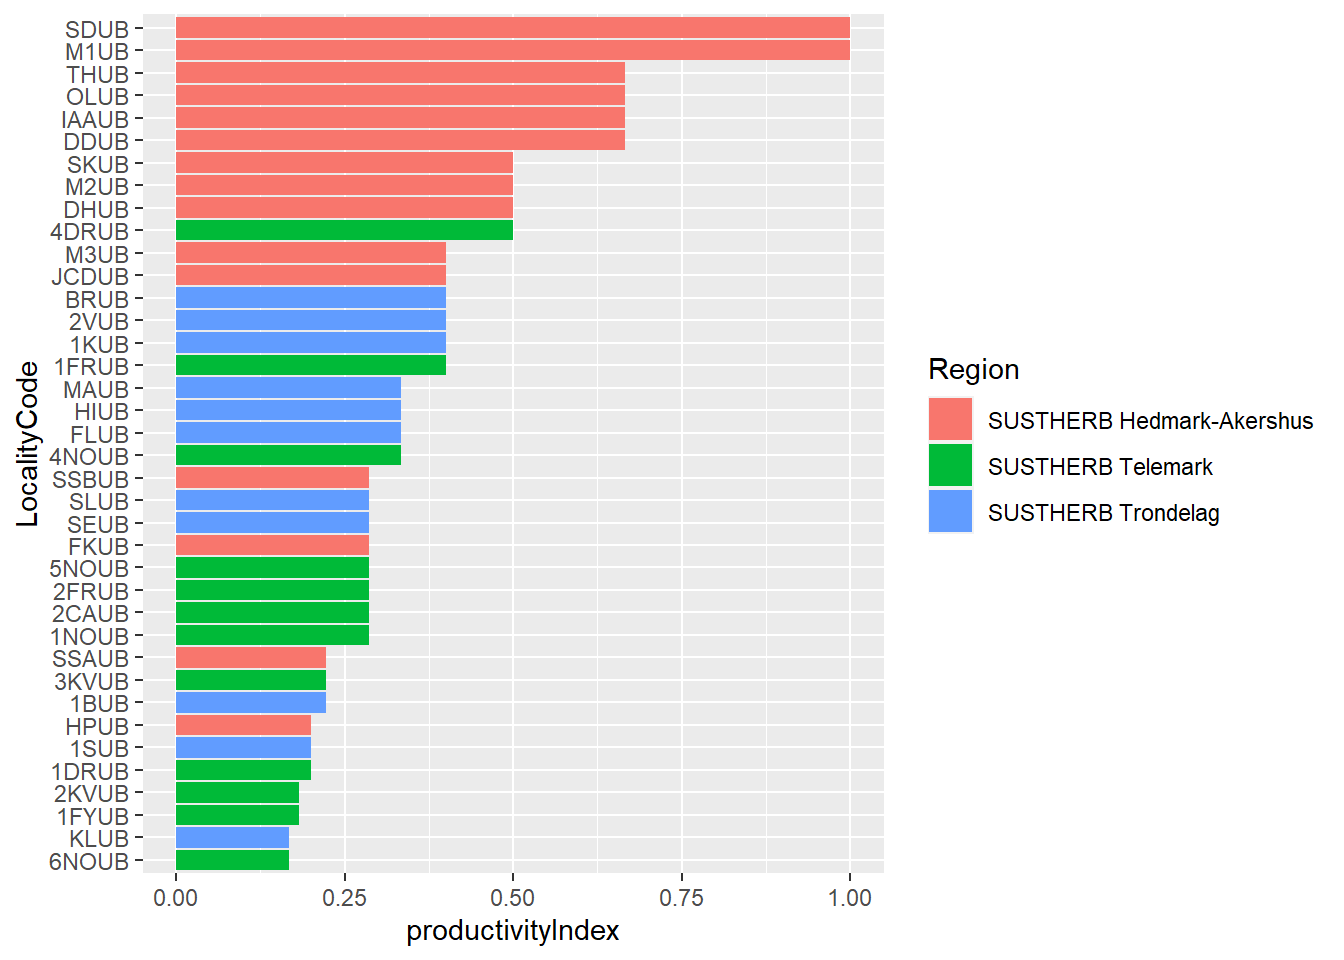
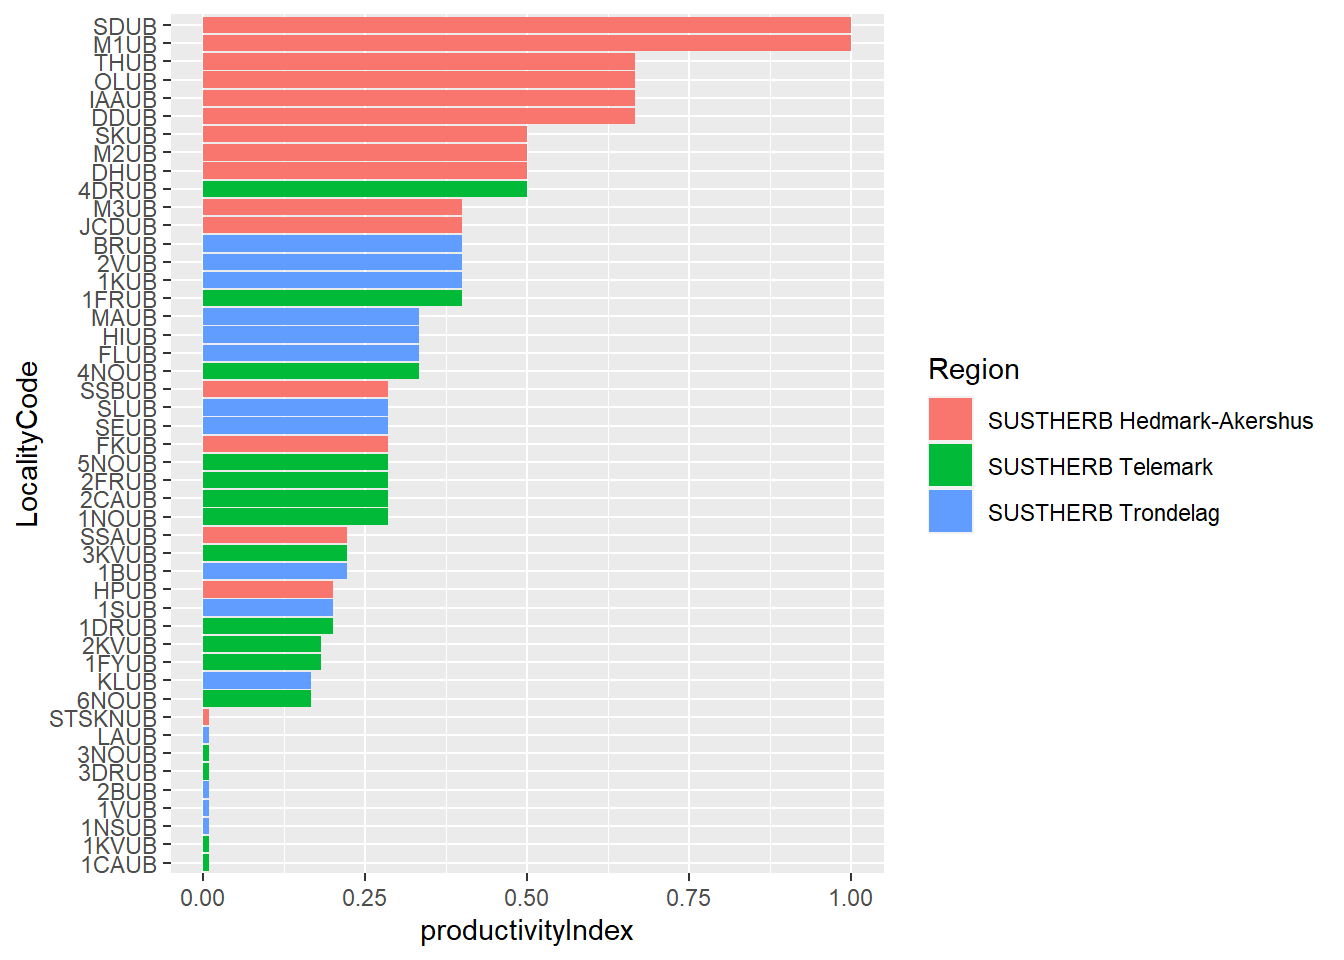
update productivity index

diff --git a/R/productivity index.html b/R/productivity index.html
@@ -346,22 +346,32 @@ Figure&nbsp;5: Same as previous figure, but with normalised biomass variable.
 <summary>Code</summary>
 <div class="sourceCode cell-code" id="cb12"><pre class="sourceCode r code-with-copy"><code class="sourceCode r"><span id="cb12-1"><a href="#cb12-1" aria-hidden="true" tabindex="-1"></a>dat_site <span class="ot">&lt;-</span> dat_site <span class="sc">|&gt;</span></span>
 <span id="cb12-2"><a href="#cb12-2" aria-hidden="true" tabindex="-1"></a>  <span class="fu">group_by</span>(LocalityCode) <span class="sc">|&gt;</span></span>
-<span id="cb12-3"><a href="#cb12-3" aria-hidden="true" tabindex="-1"></a>  <span class="fu">mutate</span>(<span class="at">lowestYear =</span> <span class="fu">case_when</span>(</span>
-<span id="cb12-4"><a href="#cb12-4" aria-hidden="true" tabindex="-1"></a>    Biomass_norm <span class="sc">==</span> <span class="dv">0</span> <span class="sc">~</span> yearsSinceStart),</span>
-<span id="cb12-5"><a href="#cb12-5" aria-hidden="true" tabindex="-1"></a>    <span class="at">lowestYear =</span> <span class="fu">max</span>(lowestYear, <span class="at">na.rm=</span>T)) <span class="sc">|&gt;</span></span>
-<span id="cb12-6"><a href="#cb12-6" aria-hidden="true" tabindex="-1"></a>  <span class="fu">filter</span>(Biomass_norm <span class="sc">&gt;</span> <span class="dv">25000</span>) <span class="sc">|&gt;</span></span>
-<span id="cb12-7"><a href="#cb12-7" aria-hidden="true" tabindex="-1"></a>  <span class="fu">slice_min</span>(Biomass_norm) <span class="sc">|&gt;</span></span>
-<span id="cb12-8"><a href="#cb12-8" aria-hidden="true" tabindex="-1"></a>  <span class="fu">ungroup</span>() <span class="sc">|&gt;</span></span>
-<span id="cb12-9"><a href="#cb12-9" aria-hidden="true" tabindex="-1"></a>  <span class="fu">mutate</span>(<span class="at">elapsed =</span> yearsSinceStart <span class="sc">-</span> lowestYear,</span>
-<span id="cb12-10"><a href="#cb12-10" aria-hidden="true" tabindex="-1"></a>         <span class="at">productivityIndex =</span> <span class="fu">min</span>(elapsed)<span class="sc">/</span>elapsed)</span>
-<span id="cb12-11"><a href="#cb12-11" aria-hidden="true" tabindex="-1"></a></span>
-<span id="cb12-12"><a href="#cb12-12" aria-hidden="true" tabindex="-1"></a>dat_site <span class="sc">|&gt;</span></span>
-<span id="cb12-13"><a href="#cb12-13" aria-hidden="true" tabindex="-1"></a>  <span class="fu">arrange</span>(productivityIndex) <span class="sc">|&gt;</span></span>
-<span id="cb12-14"><a href="#cb12-14" aria-hidden="true" tabindex="-1"></a>  <span class="fu">mutate</span>(<span class="at">LocalityCode =</span> <span class="fu">fct_inorder</span>(LocalityCode)) <span class="sc">|&gt;</span></span>
-<span id="cb12-15"><a href="#cb12-15" aria-hidden="true" tabindex="-1"></a>  <span class="fu">ggplot</span>() <span class="sc">+</span></span>
-<span id="cb12-16"><a href="#cb12-16" aria-hidden="true" tabindex="-1"></a>  <span class="fu">geom_bar</span>(<span class="fu">aes</span>(<span class="at">x =</span> LocalityCode, <span class="at">y =</span> productivityIndex, <span class="at">fill =</span> Region),</span>
-<span id="cb12-17"><a href="#cb12-17" aria-hidden="true" tabindex="-1"></a>           <span class="at">stat =</span> <span class="st">"identity"</span>)<span class="sc">+</span></span>
-<span id="cb12-18"><a href="#cb12-18" aria-hidden="true" tabindex="-1"></a>  <span class="fu">coord_flip</span>()</span></code><button title="Copy to Clipboard" class="code-copy-button"><i class="bi"></i></button></pre></div>
+<span id="cb12-3"><a href="#cb12-3" aria-hidden="true" tabindex="-1"></a>  <span class="fu">mutate</span>(</span>
+<span id="cb12-4"><a href="#cb12-4" aria-hidden="true" tabindex="-1"></a>    <span class="at">lowestYear =</span> <span class="fu">case_when</span>(</span>
+<span id="cb12-5"><a href="#cb12-5" aria-hidden="true" tabindex="-1"></a>    Biomass_norm <span class="sc">==</span> <span class="dv">0</span> <span class="sc">~</span> yearsSinceStart),</span>
+<span id="cb12-6"><a href="#cb12-6" aria-hidden="true" tabindex="-1"></a>    <span class="at">lowestYear =</span> <span class="fu">max</span>(lowestYear, <span class="at">na.rm=</span>T),</span>
+<span id="cb12-7"><a href="#cb12-7" aria-hidden="true" tabindex="-1"></a>    <span class="at">bigEnough =</span> <span class="fu">case_when</span>(</span>
+<span id="cb12-8"><a href="#cb12-8" aria-hidden="true" tabindex="-1"></a>      Biomass_norm <span class="sc">&gt;</span> <span class="dv">25000</span> <span class="sc">~</span> <span class="cn">TRUE</span>,</span>
+<span id="cb12-9"><a href="#cb12-9" aria-hidden="true" tabindex="-1"></a>      <span class="at">.default =</span> <span class="cn">FALSE</span>)</span>
+<span id="cb12-10"><a href="#cb12-10" aria-hidden="true" tabindex="-1"></a>    ) <span class="sc">|&gt;</span>  </span>
+<span id="cb12-11"><a href="#cb12-11" aria-hidden="true" tabindex="-1"></a>  <span class="fu">filter</span>(<span class="cf">if</span>(<span class="fu">any</span>(bigEnough<span class="sc">==</span> <span class="cn">TRUE</span>)) Biomass_norm <span class="sc">&gt;</span> <span class="dv">25000</span> <span class="cf">else</span> <span class="cn">TRUE</span>) <span class="sc">|&gt;</span></span>
+<span id="cb12-12"><a href="#cb12-12" aria-hidden="true" tabindex="-1"></a>  <span class="fu">slice_min</span>(Biomass_norm) <span class="sc">|&gt;</span></span>
+<span id="cb12-13"><a href="#cb12-13" aria-hidden="true" tabindex="-1"></a>  <span class="fu">ungroup</span>() <span class="sc">|&gt;</span></span>
+<span id="cb12-14"><a href="#cb12-14" aria-hidden="true" tabindex="-1"></a>  <span class="fu">mutate</span>(</span>
+<span id="cb12-15"><a href="#cb12-15" aria-hidden="true" tabindex="-1"></a>    <span class="at">elapsed =</span> <span class="fu">case_when</span>(</span>
+<span id="cb12-16"><a href="#cb12-16" aria-hidden="true" tabindex="-1"></a>      bigEnough <span class="sc">==</span> <span class="cn">TRUE</span> <span class="sc">~</span> yearsSinceStart <span class="sc">-</span> lowestYear,</span>
+<span id="cb12-17"><a href="#cb12-17" aria-hidden="true" tabindex="-1"></a>      bigEnough <span class="sc">==</span> <span class="cn">FALSE</span> <span class="sc">~</span> <span class="cn">NA</span>),</span>
+<span id="cb12-18"><a href="#cb12-18" aria-hidden="true" tabindex="-1"></a>    <span class="at">productivityIndex =</span> <span class="fu">case_when</span>(</span>
+<span id="cb12-19"><a href="#cb12-19" aria-hidden="true" tabindex="-1"></a>      bigEnough <span class="sc">==</span> <span class="cn">TRUE</span> <span class="sc">~</span> <span class="fu">min</span>(elapsed, <span class="at">na.rm=</span>T)<span class="sc">/</span>elapsed,</span>
+<span id="cb12-20"><a href="#cb12-20" aria-hidden="true" tabindex="-1"></a>      bigEnough <span class="sc">==</span> <span class="cn">FALSE</span> <span class="sc">~</span> <span class="fl">0.01</span>))</span>
+<span id="cb12-21"><a href="#cb12-21" aria-hidden="true" tabindex="-1"></a></span>
+<span id="cb12-22"><a href="#cb12-22" aria-hidden="true" tabindex="-1"></a>dat_site <span class="sc">|&gt;</span></span>
+<span id="cb12-23"><a href="#cb12-23" aria-hidden="true" tabindex="-1"></a>  <span class="fu">arrange</span>(productivityIndex) <span class="sc">|&gt;</span></span>
+<span id="cb12-24"><a href="#cb12-24" aria-hidden="true" tabindex="-1"></a>  <span class="fu">mutate</span>(<span class="at">LocalityCode =</span> <span class="fu">fct_inorder</span>(LocalityCode)) <span class="sc">|&gt;</span></span>
+<span id="cb12-25"><a href="#cb12-25" aria-hidden="true" tabindex="-1"></a>  <span class="fu">ggplot</span>() <span class="sc">+</span></span>
+<span id="cb12-26"><a href="#cb12-26" aria-hidden="true" tabindex="-1"></a>  <span class="fu">geom_bar</span>(<span class="fu">aes</span>(<span class="at">x =</span> LocalityCode, <span class="at">y =</span> productivityIndex, <span class="at">fill =</span> Region),</span>
+<span id="cb12-27"><a href="#cb12-27" aria-hidden="true" tabindex="-1"></a>           <span class="at">stat =</span> <span class="st">"identity"</span>)<span class="sc">+</span></span>
+<span id="cb12-28"><a href="#cb12-28" aria-hidden="true" tabindex="-1"></a>  <span class="fu">coord_flip</span>()</span></code><button title="Copy to Clipboard" class="code-copy-button"><i class="bi"></i></button></pre></div>
 </details>
 <div class="cell-output-display">
 <div id="fig-productivity" class="quarto-figure quarto-figure-center quarto-float anchored">
